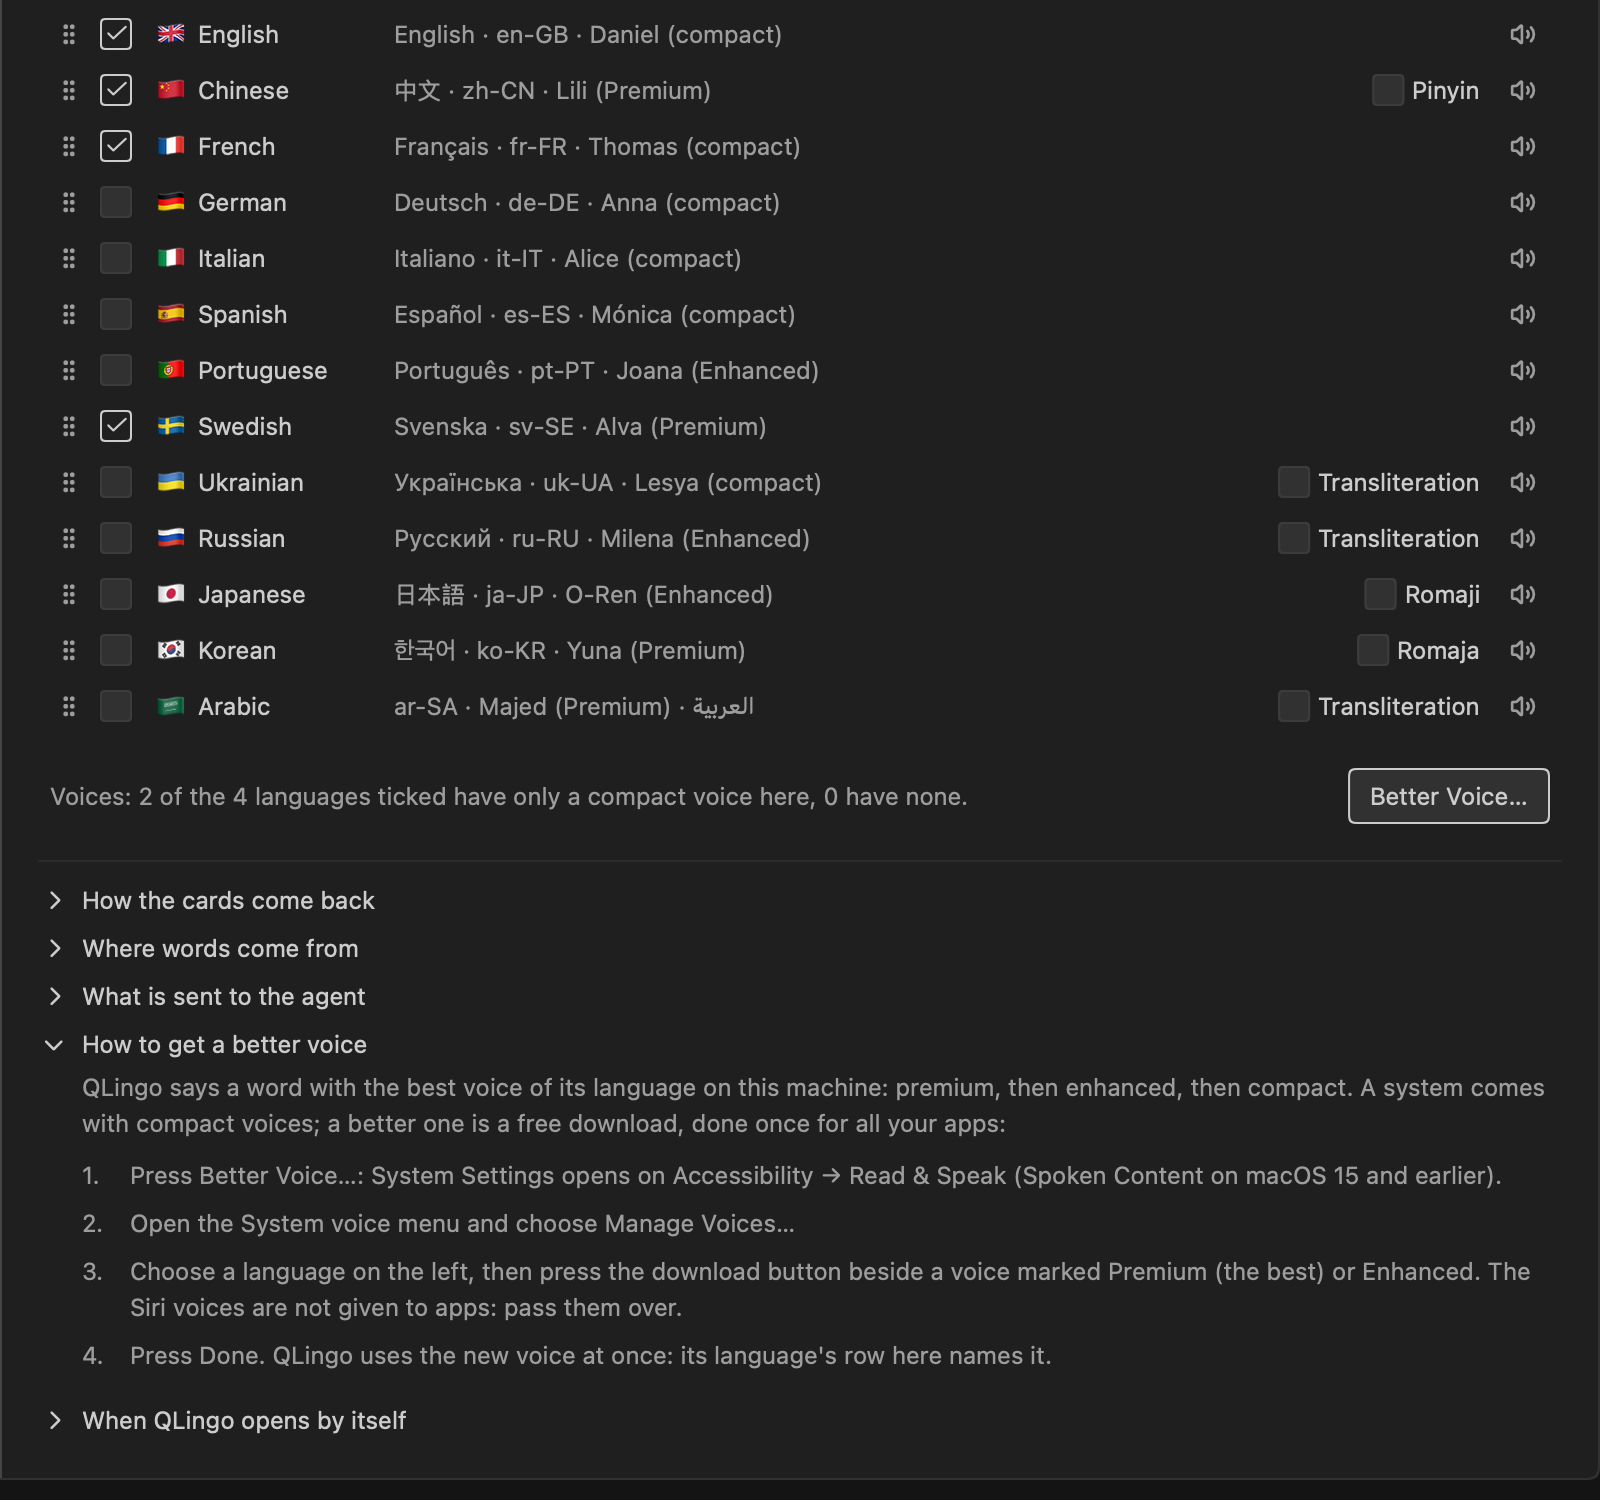
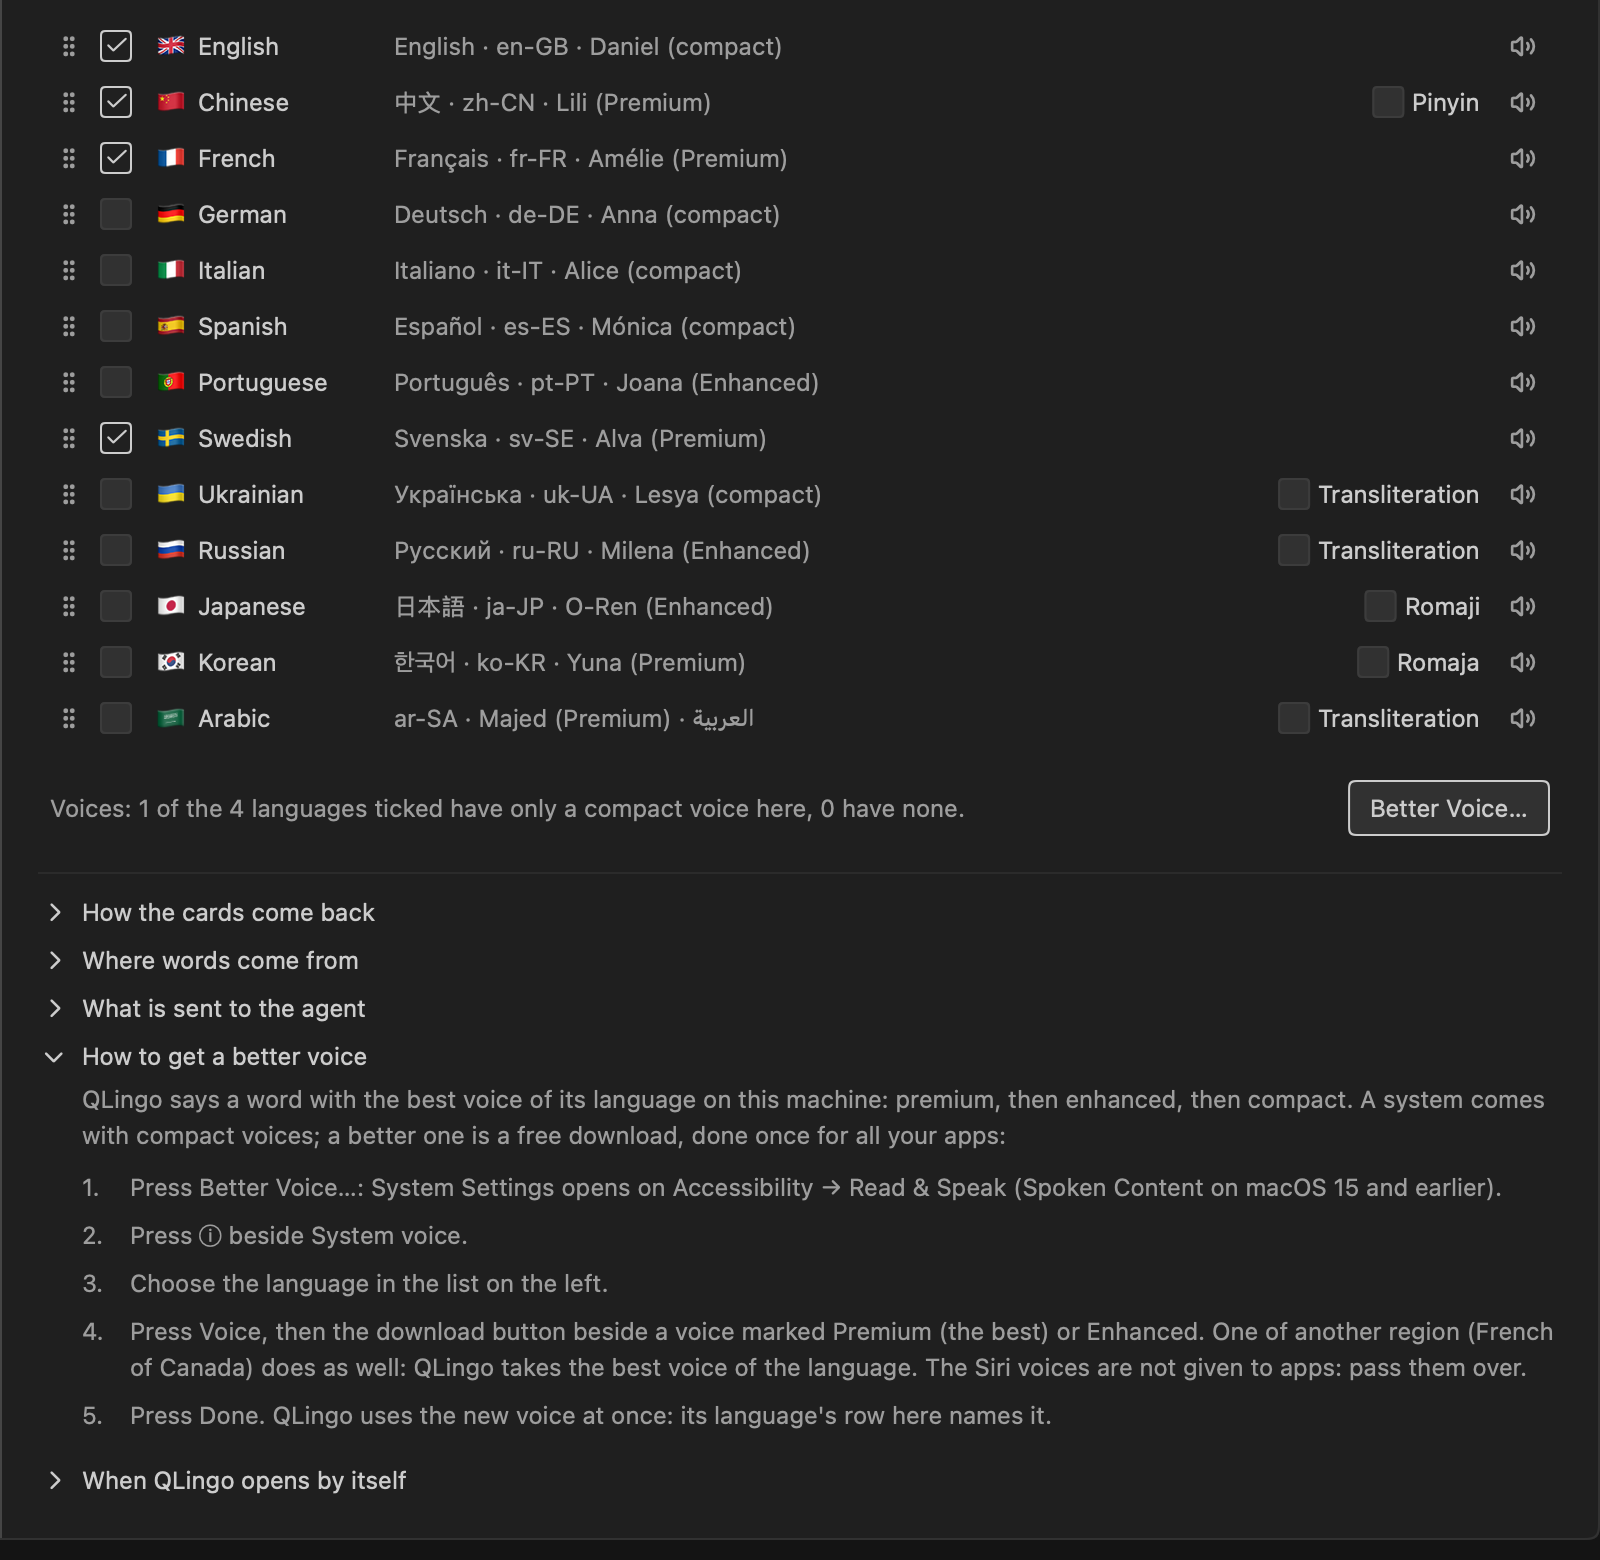
docs: QLingo's better voice on a Mac through System voice's ⓘ, with the owner's pictures of the voice box and its downloads

diff --git a/docs/agents/qlingo-voices.md b/docs/agents/qlingo-voices.md
@@ -17,13 +17,21 @@ the list opens the steps for your system, and on a Mac or on Windows the system'
 
    <img src="/screenshot/qlingo-voice-mac-read-speak.png" alt="System Settings, Accessibility → Read & Speak: Accessibility Reader, Speak selection, Speak item under the pointer, Speak announcements, Speak typing feedback, then System speech language and System voice (Samantha) with its menu">
 
-2. Open the **System voice** menu and choose **Manage Voices…**.
-3. Choose a language on the left, then press the download button beside a voice marked **Premium**
-   (the best) or **Enhanced**.
-4. Press **Done**. QLingo uses the new voice at once: its language's row names it.
+2. Press **ⓘ** beside **System voice**.
+3. Choose the language in the list on the left.
 
-The Siri voices in that list are not given to apps, so QLingo cannot use them: pick a Premium or an
-Enhanced voice instead.
+   <img src="/screenshot/qlingo-voice-mac-menu.png" alt="The System voice box: the languages down the left with each one's voice, French selected with Amélie (Premium), and on the right French's Voice, Rate, Pitch, Speech Volume and the Done button">
+
+4. Press **Voice**, then the download button beside a voice marked **Premium** (the best) or
+   **Enhanced**.
+
+   <img src="/screenshot/qlingo-voice-download.png" alt="French's voices: Aude and Aude (Enhanced) with their download buttons and sizes, French (Canada)'s Amélie, Amélie (Enhanced) 71.6 MB, Amélie (Premium) in use, Chantal and Chantal (Enhanced)">
+
+5. Press **Done**. QLingo uses the new voice at once: its language's row names it.
+
+A voice of another region (French of Canada for French) does as well: QLingo takes the best voice of
+the language. The Siri voices in that list are not given to apps, so QLingo cannot use them: pick a
+Premium or an Enhanced voice instead.
 
 ## On Windows
 
